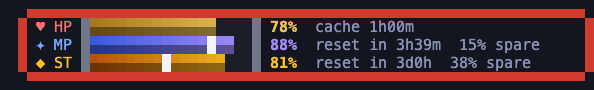
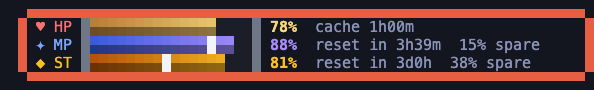
Add squash, and curl Gear 5's clouds behind Luffy's back
squash, from 0 to 1, sets how far the motions bend the sprite; 1, the
default, draws every older pet as before. Luffy uses 0.15, so he hops and
bobs without stretching out of shape. Gear 5 gets a curled cloud behind each
shoulder. README's gear table follows the full-body sprite, and the demo is
re-recorded.

Changed region(s): [[0.0303, 0.0889, 1.0, 0.9111], [0.4545, 0.2222, 0.5152, 0.3556]]

diff --git a/plugins/oxen-pet/hooks/theme.ts b/plugins/oxen-pet/hooks/theme.ts
@@ -9,6 +9,7 @@ import type { Scene } from './scene'
 export type Theme = {
   name: string
   scale: number
+  squash: number // how much the poses squash and stretch the sprite: 1 fully, 0 not at all, so it only lifts
   sprite: string[]
   palette: Record<string, string>
   outline?: string
@@ -24,8 +25,8 @@ export type Theme = {
 } & Look
 
 /** The sprite fields a form sets for one mode; those it leaves out are the pet's own. */
-export type Form = Pick<Theme, 'scale' | 'sprite' | 'palette' | 'outline' | 'eyes' | 'eyeColor' | 'cheeks' | 'cheekColor'>
-const FORM_KEYS = ['sprite', 'palette', 'scale', 'outline', 'eyes', 'eyeColor', 'cheeks', 'cheekColor'] as const
+export type Form = Pick<Theme, 'scale' | 'squash' | 'sprite' | 'palette' | 'outline' | 'eyes' | 'eyeColor' | 'cheeks' | 'cheekColor'>
+const FORM_KEYS = ['sprite', 'palette', 'scale', 'squash', 'outline', 'eyes', 'eyeColor', 'cheeks', 'cheekColor'] as const
 
 // The frames mark cheeks and sparkles, and the resting frame pupils, with characters a palette may not use.
 const CHEEK_MARK = '*'
@@ -356,6 +357,15 @@ export function readTheme(v: unknown): { theme: Theme; notes: string[]; errors?:
     notes.push(`A ${w}×${h} sprite is drawn at scale ${scale} to fit every pose. At scale 1 the largest is ${maxSize(1).w}×${maxSize(1).h}, and a smaller scale blurs detail.`)
   }
 
+  let squash = 1
+  if (v.squash !== undefined) {
+    const isNumber = typeof v.squash === 'number' && Number.isFinite(v.squash)
+    squash = isNumber ? Math.min(1, Math.max(0, v.squash as number)) : 1
+    if (!isNumber || squash !== v.squash) {
+      notes.push(`\`squash\` is a number from 0 to 1, so ${JSON.stringify(v.squash)} reads as ${squash}.`)
+    }
+  }
+
   const outline = typeof v.outline === 'string' && v.outline in palette ? v.outline : undefined
   const eyes = isPair(v.eyes) ? v.eyes : undefined
   if (v.eyes !== undefined && eyes === undefined) {
@@ -389,6 +399,7 @@ export function readTheme(v: unknown): { theme: Theme; notes: string[]; errors?:
     theme: {
       name,
       scale,
+      squash,
       sprite: rows,
       palette,
       outline,
@@ -442,7 +453,7 @@ function readForms(v: Record<string, unknown>, notes: string[]): Theme['forms'] 
     }
     notes.push(...read.notes.filter(n => !before.has(n)).map(n => `forms.${mode}: ${n}`))
     const t = read.theme
-    forms[mode as Mode] = { scale: t.scale, sprite: t.sprite, palette: t.palette, outline: t.outline, eyes: t.eyes, eyeColor: t.eyeColor, cheeks: t.cheeks, cheekColor: t.cheekColor }
+    forms[mode as Mode] = { scale: t.scale, squash: t.squash, sprite: t.sprite, palette: t.palette, outline: t.outline, eyes: t.eyes, eyeColor: t.eyeColor, cheeks: t.cheeks, cheekColor: t.cheekColor }
   }
 
   return forms
@@ -451,7 +462,9 @@ function readForms(v: Record<string, unknown>, notes: string[]): Theme['forms'] 
 const colorOf = (color: string) => parseInt(color.slice(1), 16)
 
 function poseFrame(theme: Form, pose: Pose, extra: [number, number][] = []): BodyFrame {
-  const [sx, sy, dy] = [pose[0] * theme.scale, pose[1] * theme.scale, pose[2] * theme.scale]
+  // squash scales how far the pose bends the sprite; the lift stays whole.
+  const bend = (f: number) => 1 + (f - 1) * theme.squash
+  const [sx, sy, dy] = [bend(pose[0]) * theme.scale, bend(pose[1]) * theme.scale, pose[2] * theme.scale]
   const sw = (theme.sprite[0] as string).length
   const sh = theme.sprite.length
   const cx = sw / 2

diff --git a/plugins/oxen-pet/hooks/theme.test.ts b/plugins/oxen-pet/hooks/theme.test.ts
@@ -264,3 +264,41 @@ test('a theme kept before forms existed reads with none', () => {
   expect(read.errors).toBeUndefined()
   expect(read.errors ? undefined : read.theme.forms).toEqual({})
 })
+
+// A person-shaped pet, which squashing would distort.
+const PERSON = { name: 'person', sprite: ['..aaa..', '..aaa..', 'aaaaaaa', '..a.a..', '..a.a..'], palette: { a: '#336699' } }
+
+test('squash 0 keeps the sprite\'s shape in every pose: it only lifts it, so a jump moves it up whole', () => {
+  const read = readTheme({ ...PERSON, squash: 0 })
+  if (read.errors) {
+    throw new Error(read.errors.join('\n'))
+  }
+  expect(read.notes).toEqual([])
+  const body = animate(read.theme)
+  const resting = body.clips.stand.frames[0]!.g
+  for (const clip of ['stand', 'run', 'think'] as const) {
+    for (const frame of body.clips[clip].frames.filter(f => f.g.at(-1) !== '.'.repeat(19))) {
+      expect(frame.g).toEqual(resting)
+    }
+  }
+  // The jump's highest frame is the resting one lifted 9 pixels.
+  const top = body.clips.jump.frames[6]!.g
+  expect(top.slice(0, -9)).toEqual(resting.slice(9))
+})
+
+test('squash between 0 and 1 squashes less than the default, and a value out of range is clamped with a note', () => {
+  const width = (squash: number) => {
+    const read = readTheme({ ...PERSON, squash })
+    if (read.errors) {
+      throw new Error(read.errors.join('\n'))
+    }
+    // The jump's landing frame stretches the most: 1.25 across.
+    return Math.max(...animate(read.theme).clips.jump.frames[11]!.g.map(r => r.replace(/^\.+|\.+$/g, '').length))
+  }
+  expect(width(1)).toBeGreaterThan(width(0.3))
+  expect(width(0.3)).toBeGreaterThanOrEqual(width(0))
+  const read = readTheme({ ...PERSON, squash: 3 })
+  expect(read.errors ? read.errors : read.notes).toContain('`squash` is a number from 0 to 1, so 3 reads as 1.')
+  const bad = readTheme({ ...PERSON, squash: 'lots' })
+  expect(bad.errors ? bad.errors : bad.notes).toContain('`squash` is a number from 0 to 1, so "lots" reads as 1.')
+})

diff --git a/plugins/oxen-pet/skills/oxen-pet/FORMAT.md b/plugins/oxen-pet/skills/oxen-pet/FORMAT.md
@@ -11,6 +11,7 @@ Four pets ship with the plugin. [`assets/luffy.json`](../../assets/luffy.json), 
 | `eyes` | | Two `[x, y]` points: the top-left pixel of each eye's 2×2 pupil. `x` counts from the left and `y` from the top, both from 0. Without `eyes` the pet has no eyes and shows no faces. |
 | `name` | | 1 to 24 characters. Default `"pet"`. |
 | `scale` | | Default 1, where one sprite pixel is one screen pixel. A sprite too big for the scale draws at the largest scale that fits. |
+| `squash` | | How much the motions squash and stretch the sprite, from `0` to `1`. Default `1`, which suits a round pet. A person or anything with limbs reads better at `0.1` to `0.3`: it bobs and hops without bending out of shape. |
 | `outline` | | The palette character of the outline. It counts extra when the pet squashes, so the outline stays unbroken. |
 | `eyeColor` | | The pupils' color. Default `"#000000"`. It recolors the pupils only: eye whites, stars, and hearts keep their own colors. |
 | `cheeks` | | Two `[x, y]` pixels, one per cheek. |
@@ -66,7 +67,7 @@ The hearts and stars fill the whole box, so a cheek right next to a box touches 
 
 ## How the pet moves
 
-The mod makes every motion and face from the one sprite. It stretches and squashes the sprite to stand, run, jump, think, and cheer, and lifts it up to 9 pixels for a jump. The preview shows each motion under the mode that plays it. A compact shape with a wide, flat bottom reads best.
+The mod makes every motion and face from the one sprite. It stretches and squashes the sprite to stand, run, jump, think, and cheer, and lifts it up to 9 pixels for a jump. `squash` sets how far it bends: lower it for a pet that should keep its shape. The preview shows each motion under the mode that plays it. A compact shape with a wide, flat bottom reads best.
 
 A squash shrinks the sprite by up to a third, so a feature one pixel thin can vanish in it. A beak, ears, or a tail that is at least 2 pixels thick survives every pose. The duck's beak is 2 rows tall and survives; its 1-pixel tail flickers.
 
@@ -133,7 +134,7 @@ A form changes how the pet itself looks while one mode plays: a new color, a new
 
 Here the pet turns pink while it runs a command, and takes another shape when a turn ends.
 
-- A form takes the sprite fields: `sprite`, `palette`, `eyes`, `eyeColor`, `cheeks`, `cheekColor`, `outline`, and `scale`. A field it leaves out is the pet's own.
+- A form takes the sprite fields: `sprite`, `palette`, `eyes`, `eyeColor`, `cheeks`, `cheekColor`, `outline`, `scale`, and `squash`. A field it leaves out is the pet's own.
 - `palette` adds to the pet's palette: a form that only recolors names just the characters it changes.
 - A form's sprite fits the canvas like the pet's, and the mod makes every clip of it: stand, run, jump, think, and cheer, so it moves like the pet.
 - Any mode may have a form, `run` and `jump` included. A leap plays the `jump` form.

diff --git a/README.md b/README.md
@@ -63,14 +63,14 @@ To uninstall, run `claude plugin uninstall oxen-pet@oxen-pet`.
 
 | Gear | When | Luffy |
 | --- | --- | --- |
-| **Gear 1** | Idle, sleeping, thinking, reading, searching | Straw hat and grin; gnaws on meat while he reads. *"I'm gonna be King of the Pirates!"* |
-| **Gear 2** | Bash, running, jumping | Pink and steaming. *"Gear Second! $ npm test"* |
-| **Gear 3** | Editing | Slams a giant fist. *"Gomu Gomu no Elephant Gun!"* |
-| **Gear 4** | A failed call, the shield up | Red haki, smoking shoulders. *"Not on my ship!"* |
-| **Gear 5** | A turn ends, a boss falls | White cloud hair, red eyes, the drums of liberation. *"Shishishi! Freedom!"* |
+| **Gear 1** | Idle, sleeping, thinking, reading, searching | Straw hat, red vest, yellow sash; gnaws on meat while he reads. *"Gonna be King of the Pirates!"* |
+| **Gear 2** | Bash, running, jumping | Pink steam; a flaming **Red Hawk** punch on every command. *"Gear Second! $ npm test"* |
+| **Gear 3** | Editing | A giant Haki fist: **Elephant Gun**. *"Gomu Gomu no Elephant Gun!"* |
+| **Gear 4** | A failed call, the shield up | **Boundman**, and a **Kong Gun** when a call fails. *"Not on my ship!"* |
+| **Gear 5** | A turn ends, a boss falls | **Nika**: white cloud hair, clouds curling behind his back, the drums of liberation. *"Shishishi! Freedom!"* |
 
-He calls the web on a Den Den Mushi (*"puru puru puru…"*), sends straw-hat minis out as subagents
-(*"Zoro, don't get lost!"*), and runs over the sea under the Jolly Roger.
+He calls the web on a Den Den Mushi (*"puru puru puru…"*), throws a **Gatling** and sends straw-hat
+minis out as subagents (*"Zoro, don't get lost!"*), and runs over the sea under the Jolly Roger.
 
 ## What the pet does
 

diff --git a/CHANGELOG.md b/CHANGELOG.md
@@ -42,6 +42,9 @@ Luffy, a shield, a boss, a stats pane, and the HUD on the desktop.
   HUD. `stacked` stays the default.
 - **Desktop.** The Desktop app's Code tab now shows the HUD under the pet, each bar drawn as SVG,
   and a theme's scene, as one SVG band.
+- **Squash.** A theme's `squash`, from 0 to 1, sets how far the motions bend the sprite. Luffy uses
+  0.15, so he hops and bobs without stretching out of shape; 1, the default, keeps every older pet as it
+  was.
 - **Forms.** A theme can give a mode a form of its own, `forms: { "<mode>": { sprite, palette, eyes, ... } }`:
   a new color, a new shape, or both, with every clip made from it. A pet can power up when it cheers,
   or turn red when a call fails. Themes kept by older versions read with no forms.
